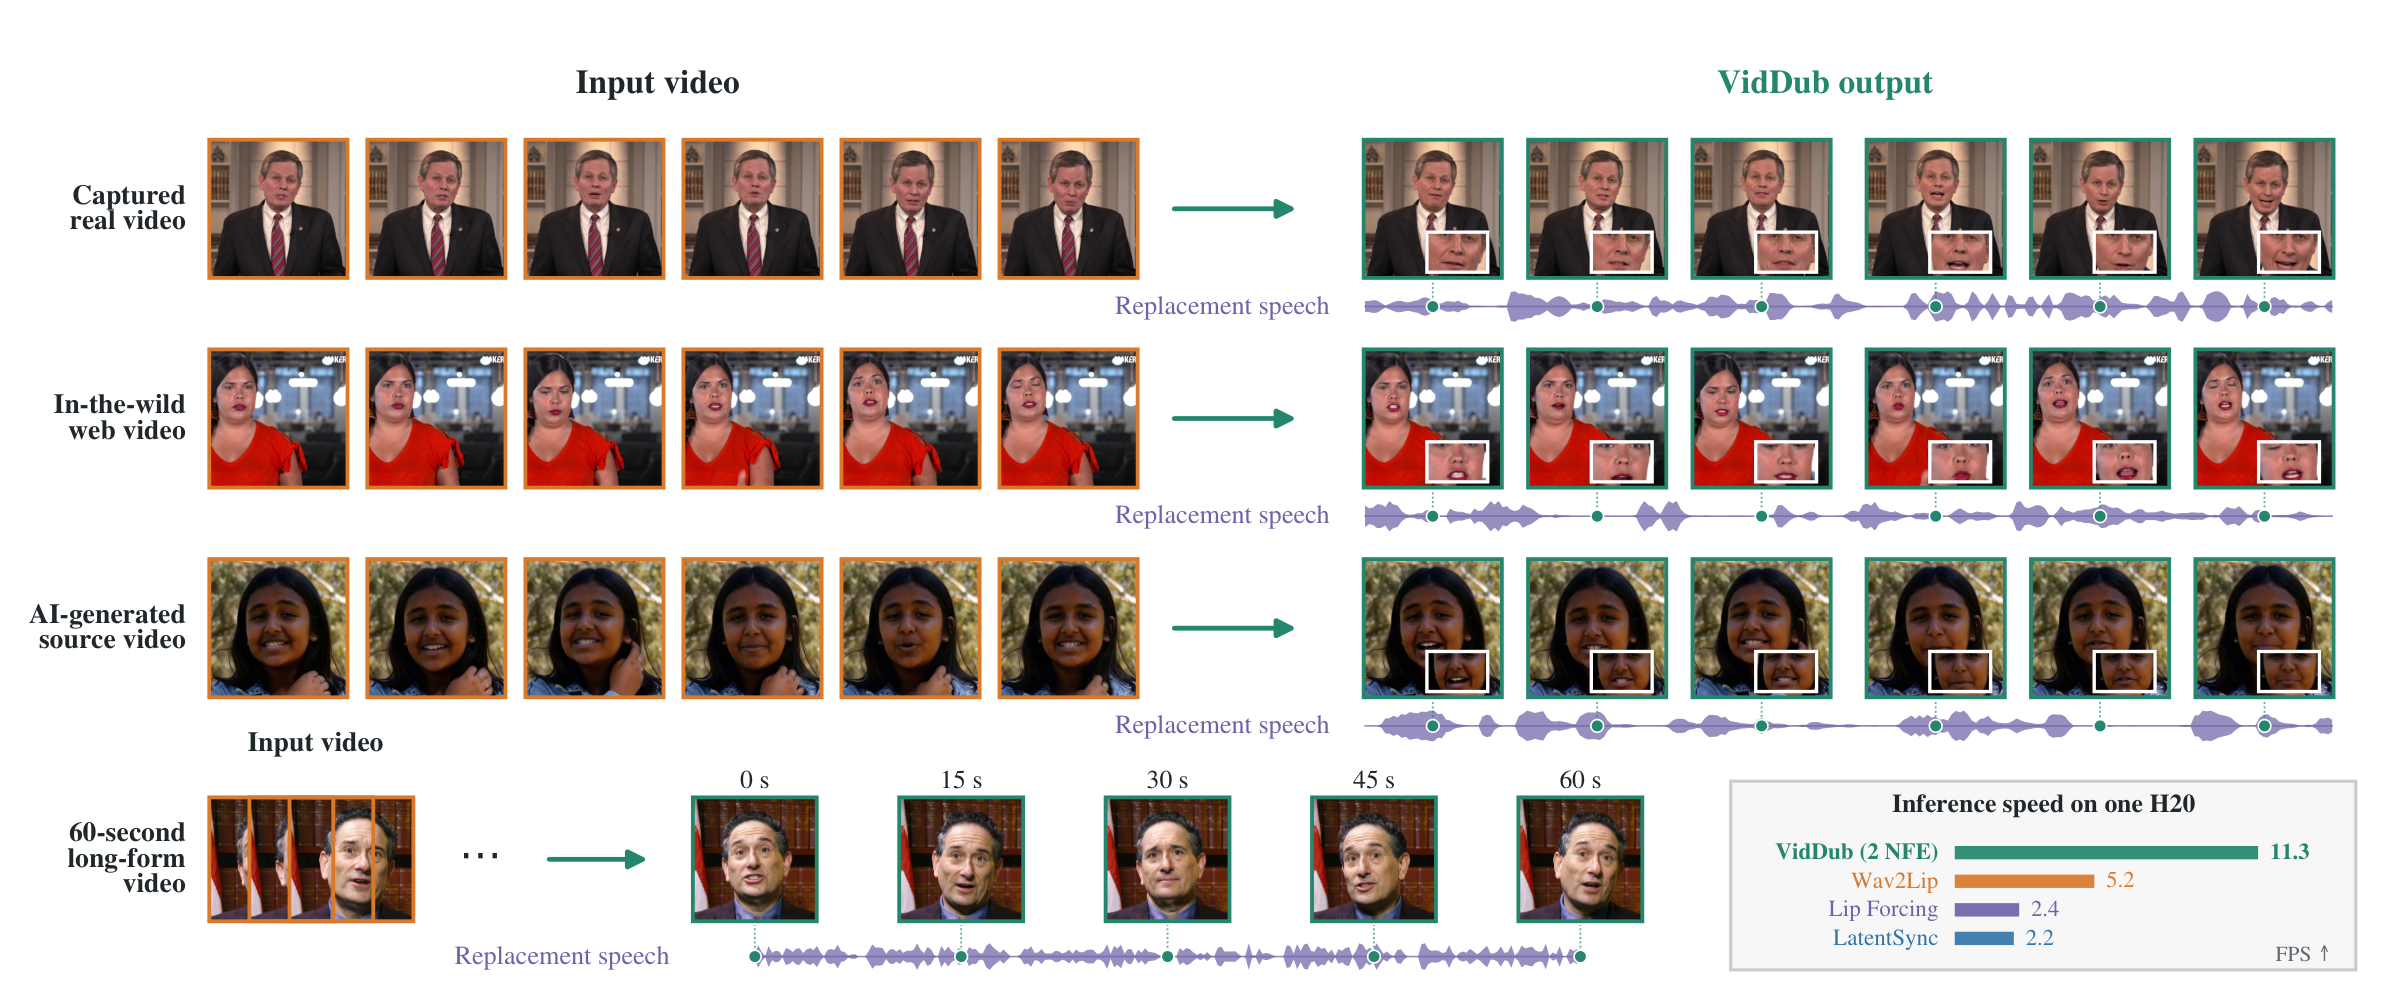
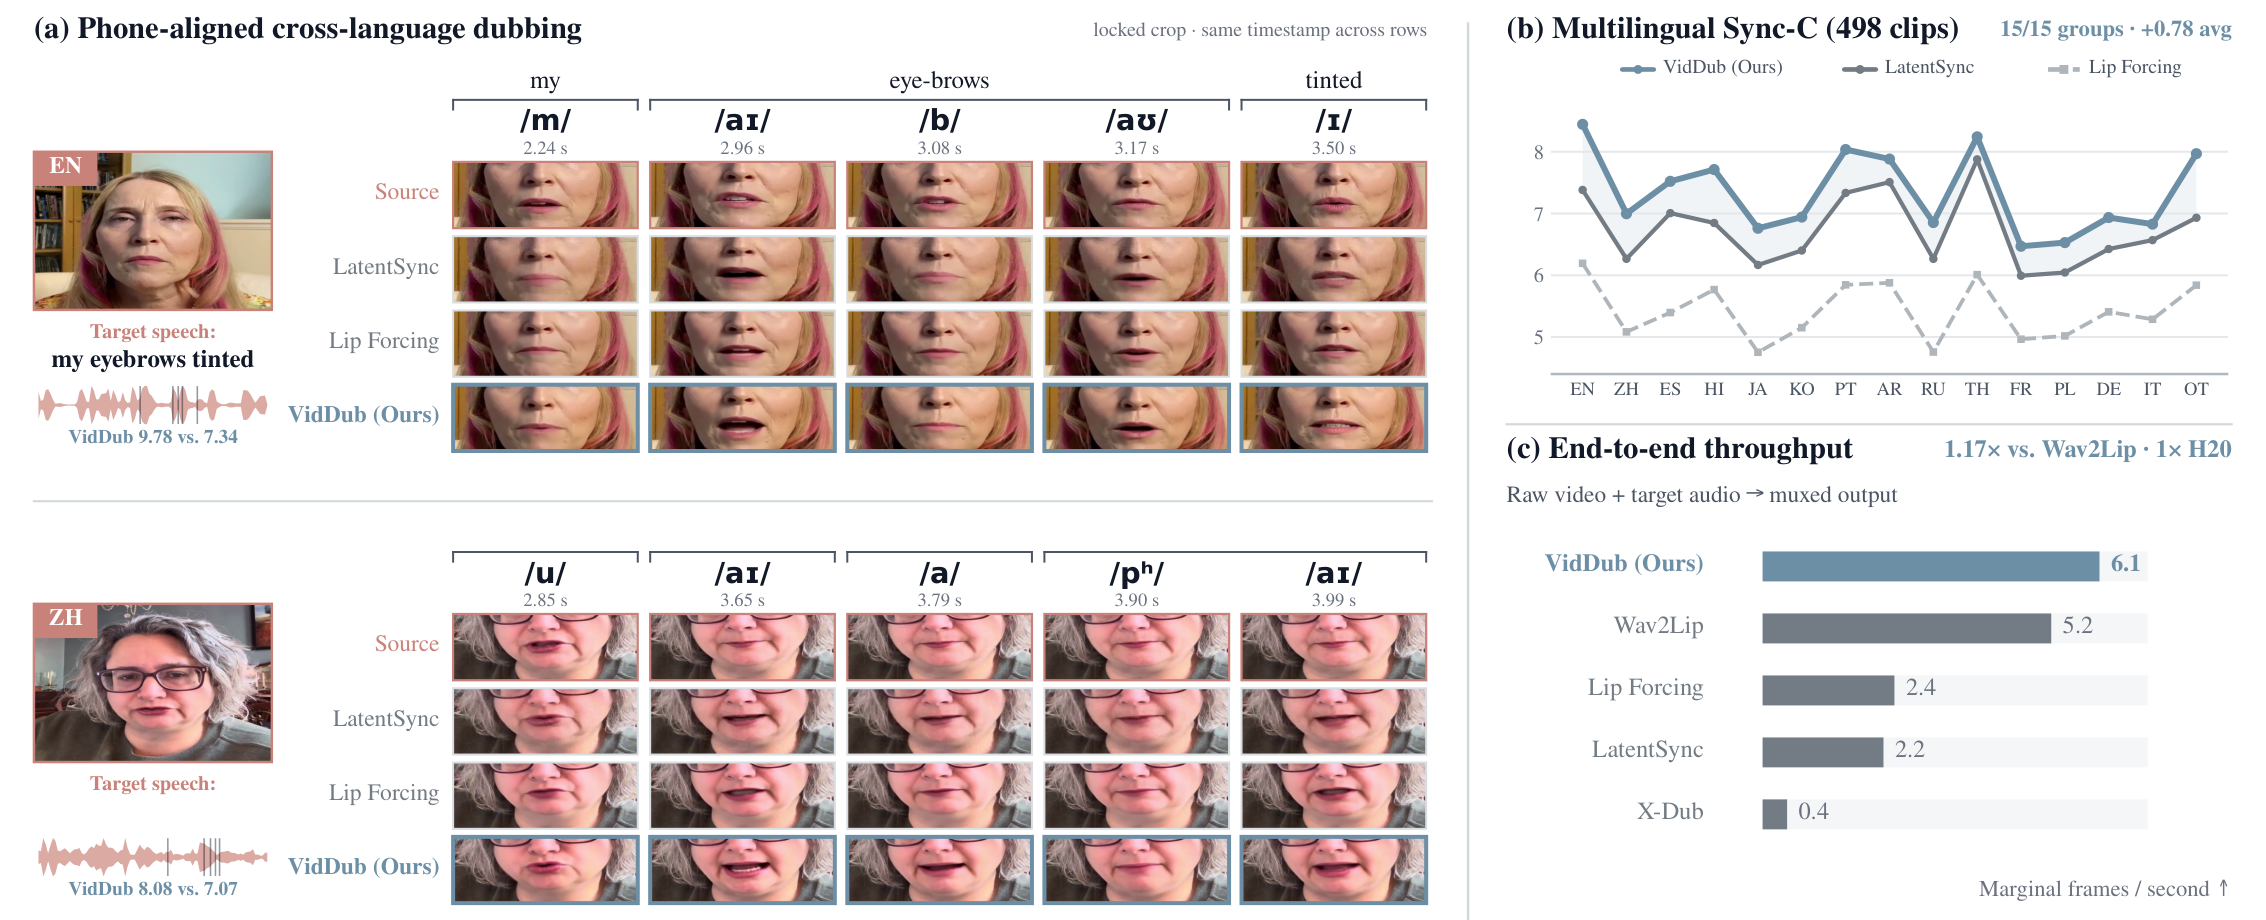
Refresh teaser with latest paper figure

diff --git a/README.md b/README.md
@@ -43,9 +43,9 @@
 </div>
 
 <p align="center">
-  <img src="assets/teaser.png" width="100%" alt="VidDub on captured, in-the-wild, generated, and long-form video">
+  <img src="assets/teaser.png" width="100%" alt="VidDub cross-language dubbing, multilingual synchronization, and throughput">
 </p>
-<p align="center"><sub>Audio-driven dubbing across captured, in-the-wild, generated, and 60-second long-form sources.</sub></p>
+<p align="center"><sub>Phone-aligned cross-language examples, multilingual synchronization, and end-to-end throughput.</sub></p>
 
 ## Overview
 
